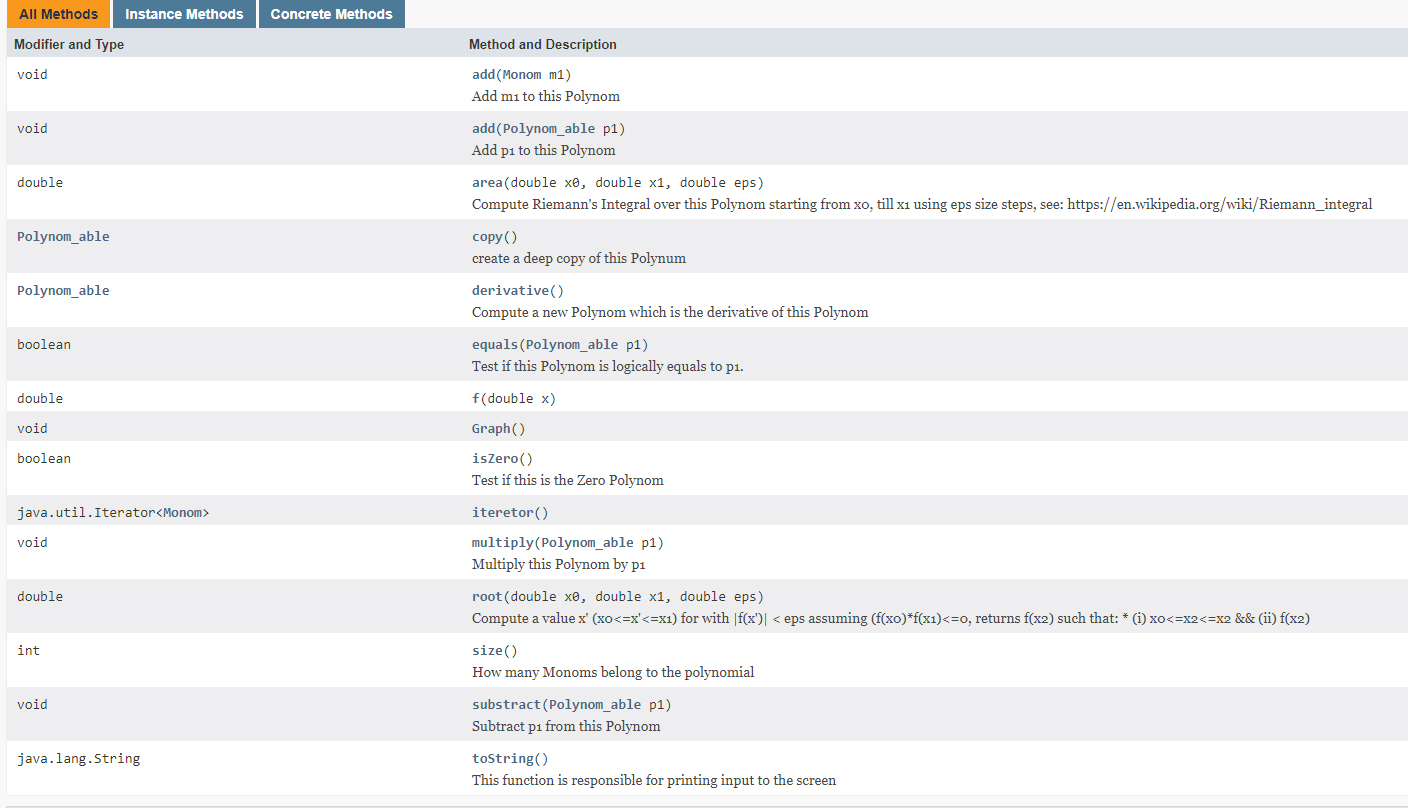
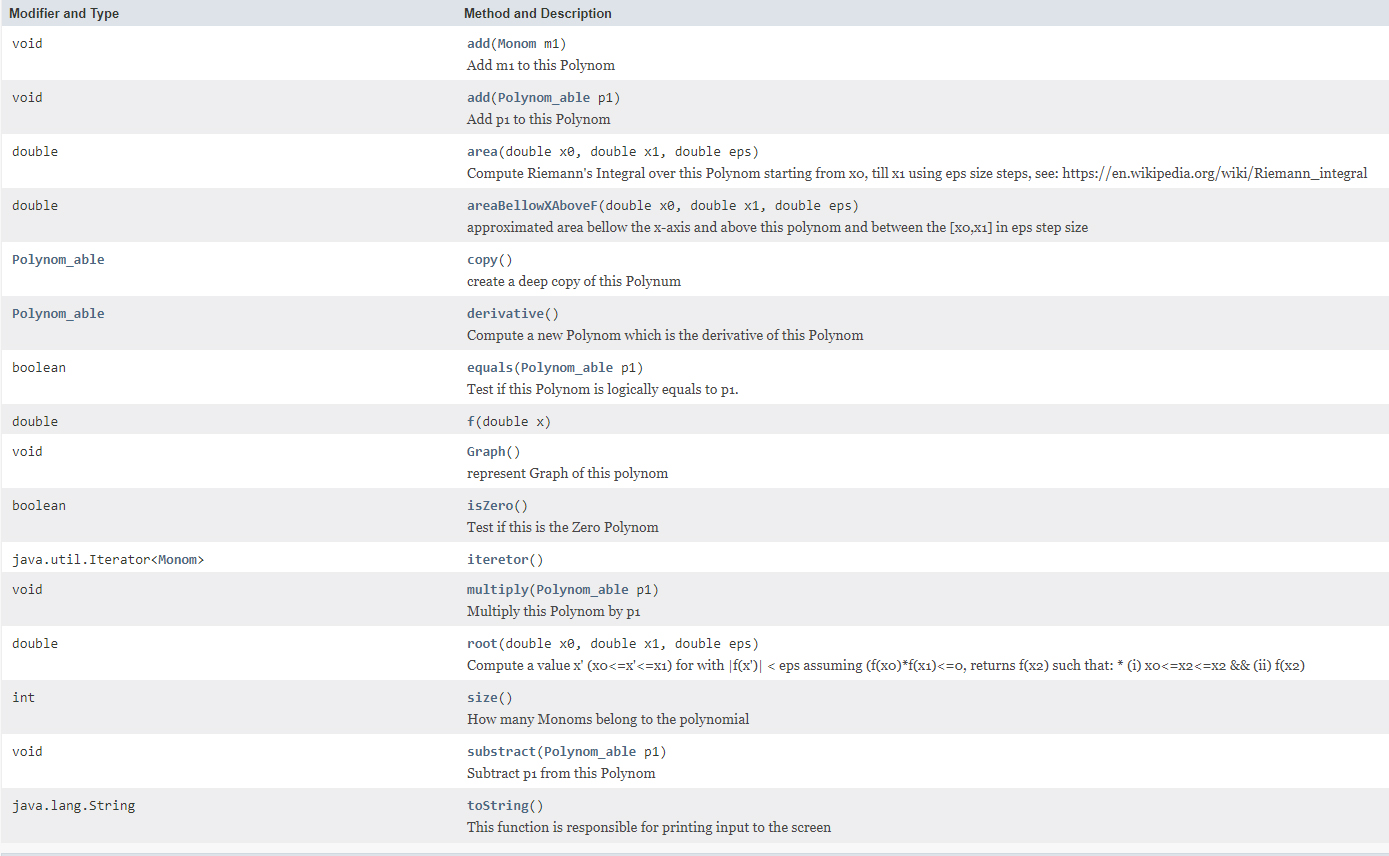
Final Version 2.0 :boom:

diff --git a/OOP Assignment/Testing/myMath/PolynomTest.java b/OOP Assignment/Testing/myMath/PolynomTest.java
@@ -9,7 +9,7 @@ import java.text.DecimalFormat;
 import org.junit.jupiter.api.Test;
 
 class PolynomTest {
-	private static final double EPS = 0.001;
+	private static final double EPS = 0.01;
 	private static final DecimalFormat df = new DecimalFormat("#.0000");
 	Polynom pol; // Init Polynom
 	String[] good = {"-2x+2","2x^1+2x+1","2*x^1-2*x+5","X^3-x","x","x^3+2x+6+12*x^100-x^3+x^1+x^0-2","x^0+3x+2","-x^0-3x+2x","-x^1+x^12+8*x^3+7",""};
@@ -106,7 +106,7 @@ class PolynomTest {
 	@Test
 	void testRoot() {
 		Polynom p1 = new Polynom("2x^3+2x^2+2-1");
-		assertEquals(-1.2977,Double.parseDouble(df.format(p1.root(-3, 2, EPS))));
+		assertEquals(-1.291,Double.parseDouble(df.format(p1.root(-3, 2, EPS))));
 	}
 	
 	@Test
@@ -125,9 +125,13 @@ class PolynomTest {
 	@Test
 	void testArea() {
 		Polynom p1 = new Polynom("2x^3+2x^2+2-1");
-		assertEquals(16.6575,Double.parseDouble(df.format(p1.area(-3, 2, EPS))));
+		assertEquals(16.5452,Double.parseDouble(df.format(p1.area(-3, 2, EPS))));
 	}
-
+	@Test
+	void testareaBellowXAboveF() {
+		Polynom p1 = new Polynom("0.2x^4-1.5x^3+3.0x^2-x-5");
+		assertEquals(25.1837,Double.parseDouble(df.format(p1.areaBellowXAboveF(-0.941,4.831, EPS))));
+	}
 	@Test
 	public void size() {
 		pol = new Polynom();
@@ -138,4 +142,5 @@ class PolynomTest {
 		}
 		assertTrue(pol.size() == 10); // for (1,1),(2,2)...(10,10)
 	}
+	
 }

diff --git a/README.md b/README.md
@@ -29,6 +29,8 @@ in addition you can draw the polynomial function on the graph and display Max an
 <h3>Polynom class</h3>
 <hr>
 <img src="./img/Polynom.jpg">
+<br>
+@version 2.0 includes now AreaBellowX, details above.
 <h3>Constructors:</h3>
 <img src="./img/Polynom_Constructors.jpg">
 <h3>A valid init for Polynom:</h3>
